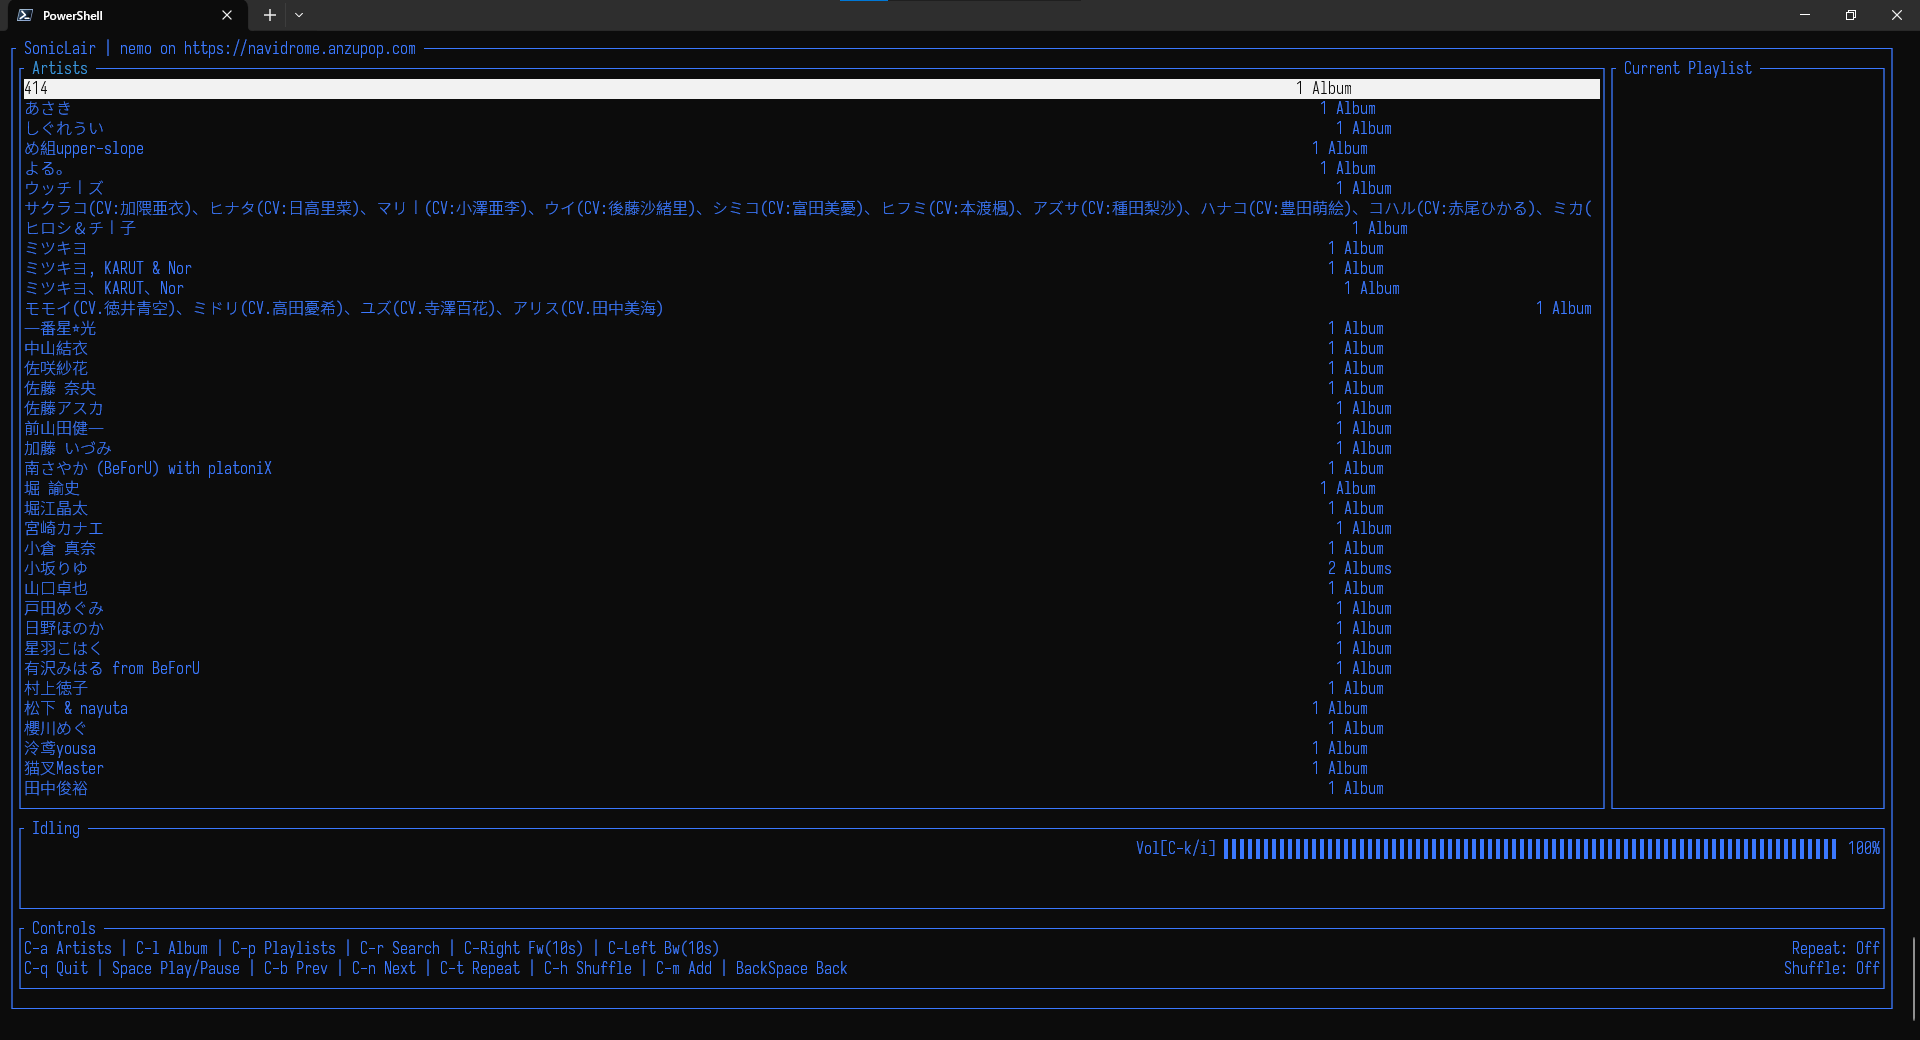
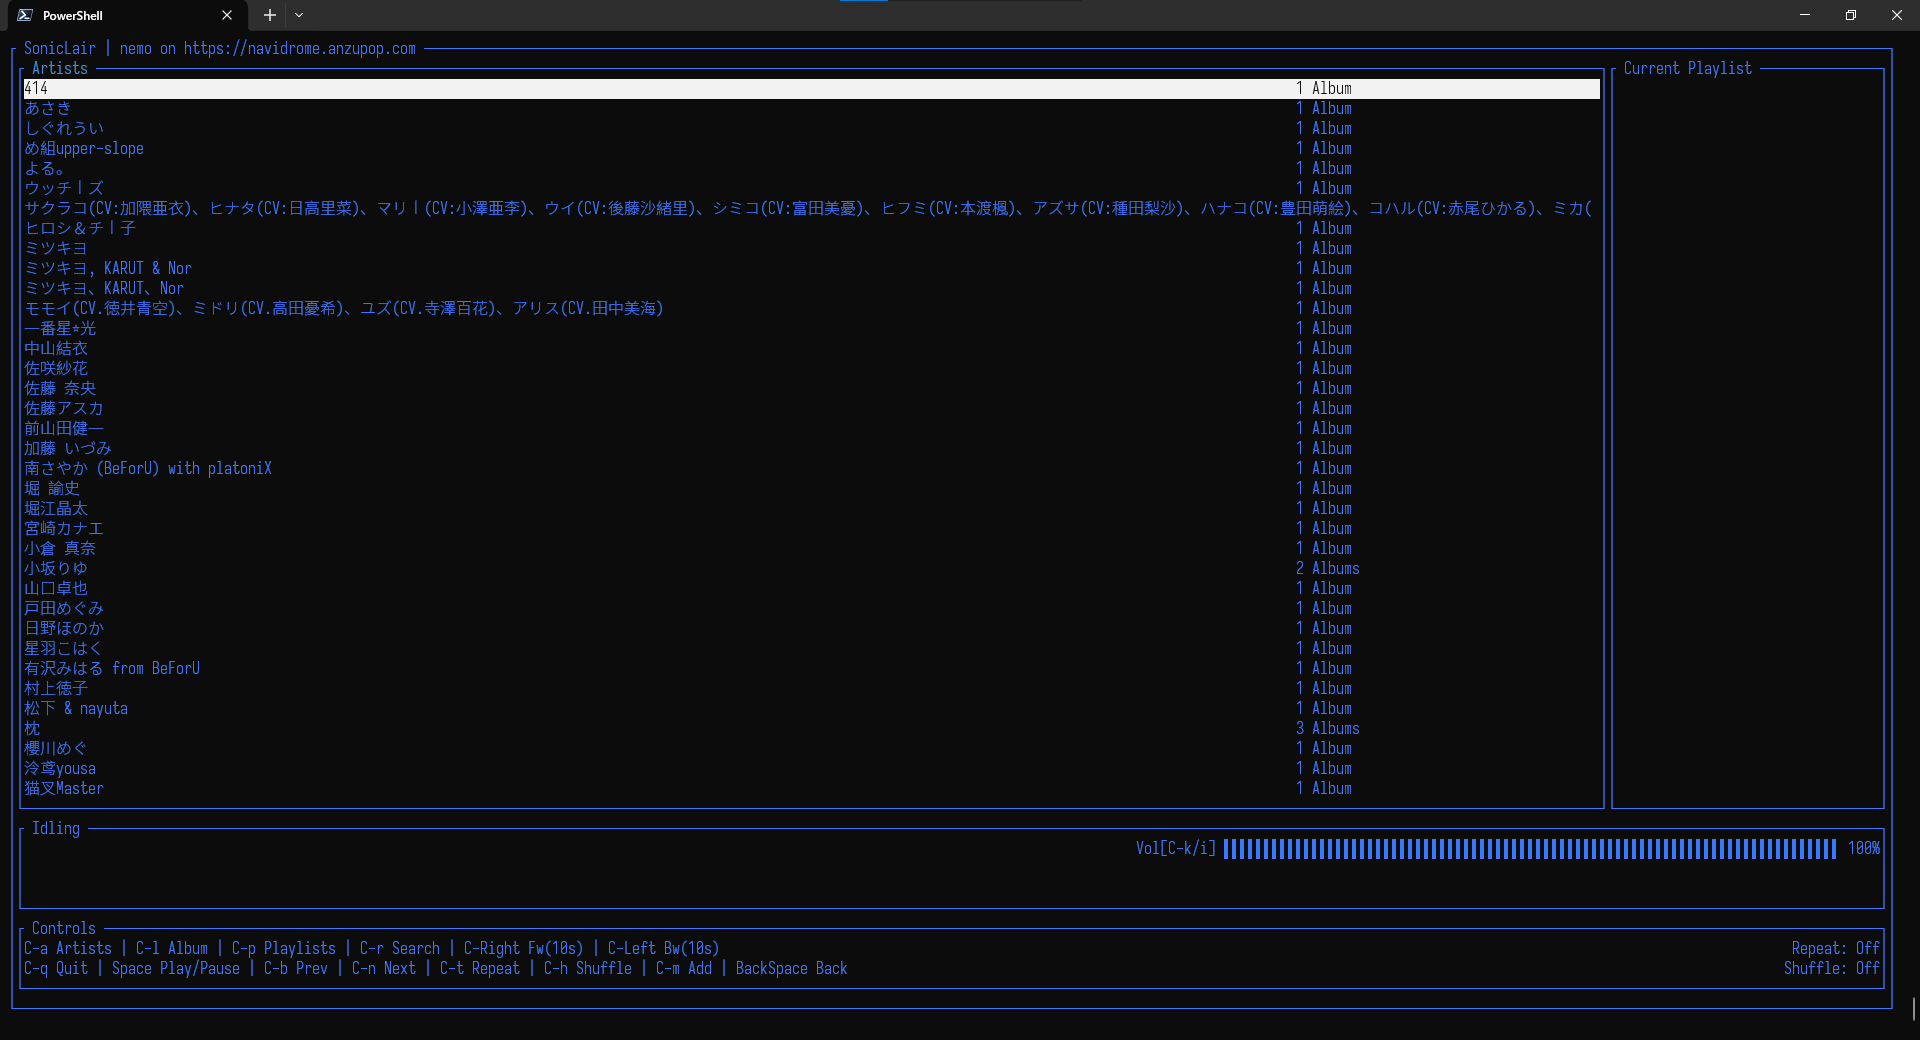
1.1.2 release
* fix: padding of wide rune
* refined title for PlaylistView
* standardize length of each entry in element in playlist
* do not trim output (unexpected behaviour)

Changed region(s): [[0.6875, 0.2154, 0.7188, 0.7692], [0.0, 0.6769, 0.0625, 0.7692], [0.6875, 0.0923, 0.7188, 0.1846]]

diff --git a/SonicLair.Cli/Windows/MainWindow.cs b/SonicLair.Cli/Windows/MainWindow.cs
@@ -1,8 +1,8 @@
 using LibVLCSharp.Shared;
-using Microsoft.VisualBasic;
 using NStack;
 
 using SonicLair.Cli;
+using SonicLair.Cli.Tools;
 using SonicLair.Lib.Infrastructure;
 using SonicLair.Lib.Services;
 using SonicLair.Lib.Types.SonicLair;
@@ -245,9 +245,9 @@ C-q Quit | Space Play/Pause | C-b Prev | C-n Next | C-t Repeat | C-h Shuffle | C
             {
                 X = 0,
                 Y = 0,
-                Width = 9,
+                Width = 11,
                 Height = 1,
-                Text = "[Search:]",
+                Text = "[Search: ?]",
                 CanFocus = false,
             };
             TextField searchField = SonicLairControls.GetTextField("");
@@ -330,14 +330,14 @@ C-q Quit | Space Play/Pause | C-b Prev | C-n Next | C-t Repeat | C-h Shuffle | C
                 }
                 var cancellationTokenSource = new CancellationTokenSource();
                 SonicLairControls.AnimateTextView(searchLabel, new[]{
-                    "[Search/]",
-                    "[Search-]",
-                    "[Search\\]",
-                    "[Search|]",
+                    "[Search: /]",
+                    "[Search: -]",
+                    "[Search: \\]",
+                    "[Search: |]",
                 }, 800, cancellationTokenSource.Token);
                 var ret = await _subsonicService!.Search(value.ToString(), 100);
                 cancellationTokenSource.Cancel();
-                searchLabel.Text = "[Search:]";
+                searchLabel.Text = "[Search: ?]";
                 Application.MainLoop.Invoke((Action)(() =>
                 {
                     if (ret.Artists != null && ret.Artists.Any<Artist>())
@@ -352,7 +352,7 @@ C-q Quit | Space Play/Pause | C-b Prev | C-n Next | C-t Repeat | C-h Shuffle | C
                         var max = ret.Albums.Max(s => s.Name.Length);
                         albumsList.Source = new SonicLairDataSource<Album>(ret.Albums, (s) =>
                         {
-                            return $"{s.Artist} :: {s.Name.PadRight(max, ' ')}";
+                            return $"{s.Artist} :: {s.Name.RunePadRight(max, ' ')}";
                         });
                     }
                     if (ret.Songs != null && ret.Songs.Any<Song>())
@@ -360,7 +360,7 @@ C-q Quit | Space Play/Pause | C-b Prev | C-n Next | C-t Repeat | C-h Shuffle | C
                         var max = ret.Songs.Max(s => s.Title.Length);
                         songsList.Source = new SonicLairDataSource<Song>(ret.Songs, (s) =>
                         {
-                            return $"{s.Artist} :: {s.Album} :: {s.Title.PadRight(max, ' ')}";
+                            return $"{s.Artist} :: {s.Album} :: {s.Title.RunePadRight(max, ' ')}";
                         });
                     }
                     Application.Refresh();
@@ -417,7 +417,7 @@ C-q Quit | Space Play/Pause | C-b Prev | C-n Next | C-t Repeat | C-h Shuffle | C
             listView.Source = new SonicLairDataSource<Artist>(artists, (a) =>
             {
                 var tag = a.AlbumCount > 1 ? "Albums" : "Album";
-                return $"{a.ToString().PadRight(max, ' ')} {a.AlbumCount.ToString().PadLeft(maxAlbums, ' ')} {tag}";
+                return $"{a.ToString().RunePadRight(max, ' ')} {a.AlbumCount.ToString().RunePadLeft(maxAlbums, ' ')} {tag}";
             });
             listView.OpenSelectedItem += ArtistsView_Selected;
             mainView.Add(listView);
@@ -479,7 +479,7 @@ C-q Quit | Space Play/Pause | C-b Prev | C-n Next | C-t Repeat | C-h Shuffle | C
         {
             var playlist = await _subsonicService!.GetPlaylist(id);
             mainView!.RemoveAll();
-            mainView.Title = $"{playlist.Name} :: {playlist.Owner} -- Lasts {playlist.Duration.GetAsMMSS()}";
+            mainView.Title = $"Playlist [{playlist.Name} :: {playlist.Owner}] -- Lasts {playlist.Duration.GetAsMMSS()}";
             SonicLairListView<Song> listView = new SonicLairListView<Song>()
             {
                 X = 0,
@@ -487,11 +487,11 @@ C-q Quit | Space Play/Pause | C-b Prev | C-n Next | C-t Repeat | C-h Shuffle | C
                 Width = Dim.Fill(),
                 Height = Dim.Fill()
             };
-            var maxTitle = playlist.Entry.Max(s => s.Title.Length);
-            var maxArtist = playlist.Entry.Max(s => s.Artist.Length);
+            var maxTitle = playlist.Entry.Max(s => s.Title.StandardizedStringLength());
+            var maxArtist = playlist.Entry.Max(s => s.Artist.StandardizedStringLength());
             var source = new SonicLairDataSource<Song>(playlist.Entry, (s) =>
             {
-                return $"{s.Title.PadRight(maxTitle, ' ')} :: {s.Artist.PadRight(maxArtist, ' ')} [{s.Duration.GetAsMMSS()}]";
+                return $"{s.Title.RunePadRight(maxTitle, ' ')} :: {s.Artist.RunePadRight(maxArtist, ' ')} [{s.Duration.GetAsMMSS()}]";
             });
             listView.Source = source;
             listView.OpenSelectedItem += (ListViewItemEventArgs e) =>
@@ -523,7 +523,7 @@ C-q Quit | Space Play/Pause | C-b Prev | C-n Next | C-t Repeat | C-h Shuffle | C
             var maxOwner = playlists.Max(s => s.Owner.Length);
             listView.Source = new SonicLairDataSource<Playlist>(playlists, (p) =>
             {
-                return $"{p.Name.PadRight(maxName + 1, ' ')} :: {p.Owner.PadRight(maxOwner + 1, ' ')} [lasts {p.Duration.GetAsMMSS()}]";
+                return $"{p.Name.RunePadRight(maxName + 1, ' ')} :: {p.Owner.RunePadRight(maxOwner + 1, ' ')} [lasts {p.Duration.GetAsMMSS()}]";
             });
             listView.OpenSelectedItem += (ListViewItemEventArgs e) =>
             {
@@ -585,7 +585,7 @@ C-q Quit | Space Play/Pause | C-b Prev | C-n Next | C-t Repeat | C-h Shuffle | C
                         }
                         else
                         {
-                            title = s.Title.PadRight(max, ' ');
+                            title = s.Title.RunePadRight(max, ' ');
                         }
                         return $"{(s.Id == currentId ? "*" : "")}{title}[{s.Duration.GetAsMMSS()}]";
                     });

diff --git a/SonicLair.Cli/Tools/StringExtension.cs b/SonicLair.Cli/Tools/StringExtension.cs
@@ -1,0 +1,34 @@
+namespace SonicLair.Cli.Tools
+{
+    public static class StringExtension
+    {
+        public static int StandardizedStringLength(this string input)
+        {
+            // each CJK rune is 2 letter width when using a monospaced font
+            int length = 0;
+            foreach (var c in input)
+            {
+                length += Rune.IsWideChar(c) ? 2 : 1;
+            }
+            return length;
+        }
+        public static string RunePadRight(this string stringToPad, int totalWidth, char paddingChar = ' ')
+        {
+            int standardizedStringLength = stringToPad.StandardizedStringLength();
+            if (standardizedStringLength >= totalWidth)
+            {
+                return stringToPad;
+            }
+            return stringToPad.PadRight(totalWidth - (standardizedStringLength - stringToPad.Length), paddingChar);
+        }
+        public static string RunePadLeft(this string stringToPad, int totalWidth, char paddingChar = ' ')
+        {
+            int standardizedStringLength = stringToPad.StandardizedStringLength();
+            if (standardizedStringLength >= totalWidth)
+            {
+                return stringToPad;
+            }
+            return stringToPad.PadLeft(totalWidth - (standardizedStringLength - stringToPad.Length), paddingChar);
+        }
+    }
+}

diff --git a/README.md b/README.md
@@ -31,13 +31,17 @@ SonicLair.Cli is a terminal music client for subsonic compatible music servers b
 
 [<img src="./ghlogo.svg" width="150px">](https://github.com/xiongnemo/SonicLair.Cli/releases)
 
-It is an (almost) self contained executable. You can grab the version for your operating system from the releases page. Within the compressed file there is the excutable and (if applicable) the libvlc libraries needed for the audio backend to work. Please keep the directory structure as is.
+* There exists a [dev](https://github.com/xiongnemo/SonicLair.Cli/tree/dev) branch. Check regularly for quick bug fixes!
+
+The [release](https://github.com/xiongnemo/SonicLair.Cli/releases) is is an (almost) self contained executable. You can grab the version for your operating system from the releases page. Within the compressed file there is the excutable and (if applicable) the libvlc libraries needed for the audio backend to work. Please keep the directory structure as is.
 
 If you are on a Windows and [scoop](https://github.com/ScoopInstaller/Scoop)-ready, you can also use scoop to install:
 
 ```powershell
 scoop bucket add nemo https://github.com/xiongnemo/windows-binaries-scoop-bucket && scoop install SonicLair.Cli
 ```
+
+Use a proper monospace font (with CJK if you want) to correctly show the paddings.
 
 ### Linux caveats
 

diff --git a/README.zh-CN.md b/README.zh-CN.md
@@ -31,13 +31,17 @@ SonicLair.Cli 是一个使用 .NET Core 8 构建的运行在终端里的 Subsoni
 
 [<img src="./ghlogo.svg" width="150px">](https://github.com/xiongnemo/SonicLair.Cli/releases)
 
-提供的可执行文件（几乎）不需要别的依赖。你可以直接从 Release 页面下载对应你的操作系统的版本。在压缩文件中有可执行文件和使得音频后端能运作的 libvlc 库（如果有）。请不要更改目录结构。
+* 有 [dev](https://github.com/xiongnemo/SonicLair.Cli/tree/dev) 分支。快速 bug 修正一般发生在此分支上，需要的话可以经常看看。
+
+[提供的可执行文件](https://github.com/xiongnemo/SonicLair.Cli/releases)（几乎）不需要别的依赖。你可以直接从 Release 页面下载对应你的操作系统的版本。在压缩文件中有可执行文件和使得音频后端能运作的 libvlc 库（如果有）。请不要更改目录结构。
 
 如果你在 Windows 上且已经有了 [scoop](https://github.com/ScoopInstaller/Scoop)，你也可以这么安装：
 
 ```powershell
 scoop bucket add nemo https://github.com/xiongnemo/windows-binaries-scoop-bucket && scoop install SonicLair.Cli
 ```
+
+使用一个等宽字体（如果你需要的话，CJK）来正确显示终端中的文字排版。
 
 ### Linux
 

diff --git a/SonicLair.Cli/changelog.md b/SonicLair.Cli/changelog.md
@@ -1,4 +1,5 @@
-# 1.1.1 release!
+# 1.1.2 release!
 
-* Fix shuffle (see git commit desc).
-* Allow more time to do search inside list.
+* Fix padding of wide rune.
+* Refined title for PlaylistView.
+* Standardize length of each entry in element in playlist.
